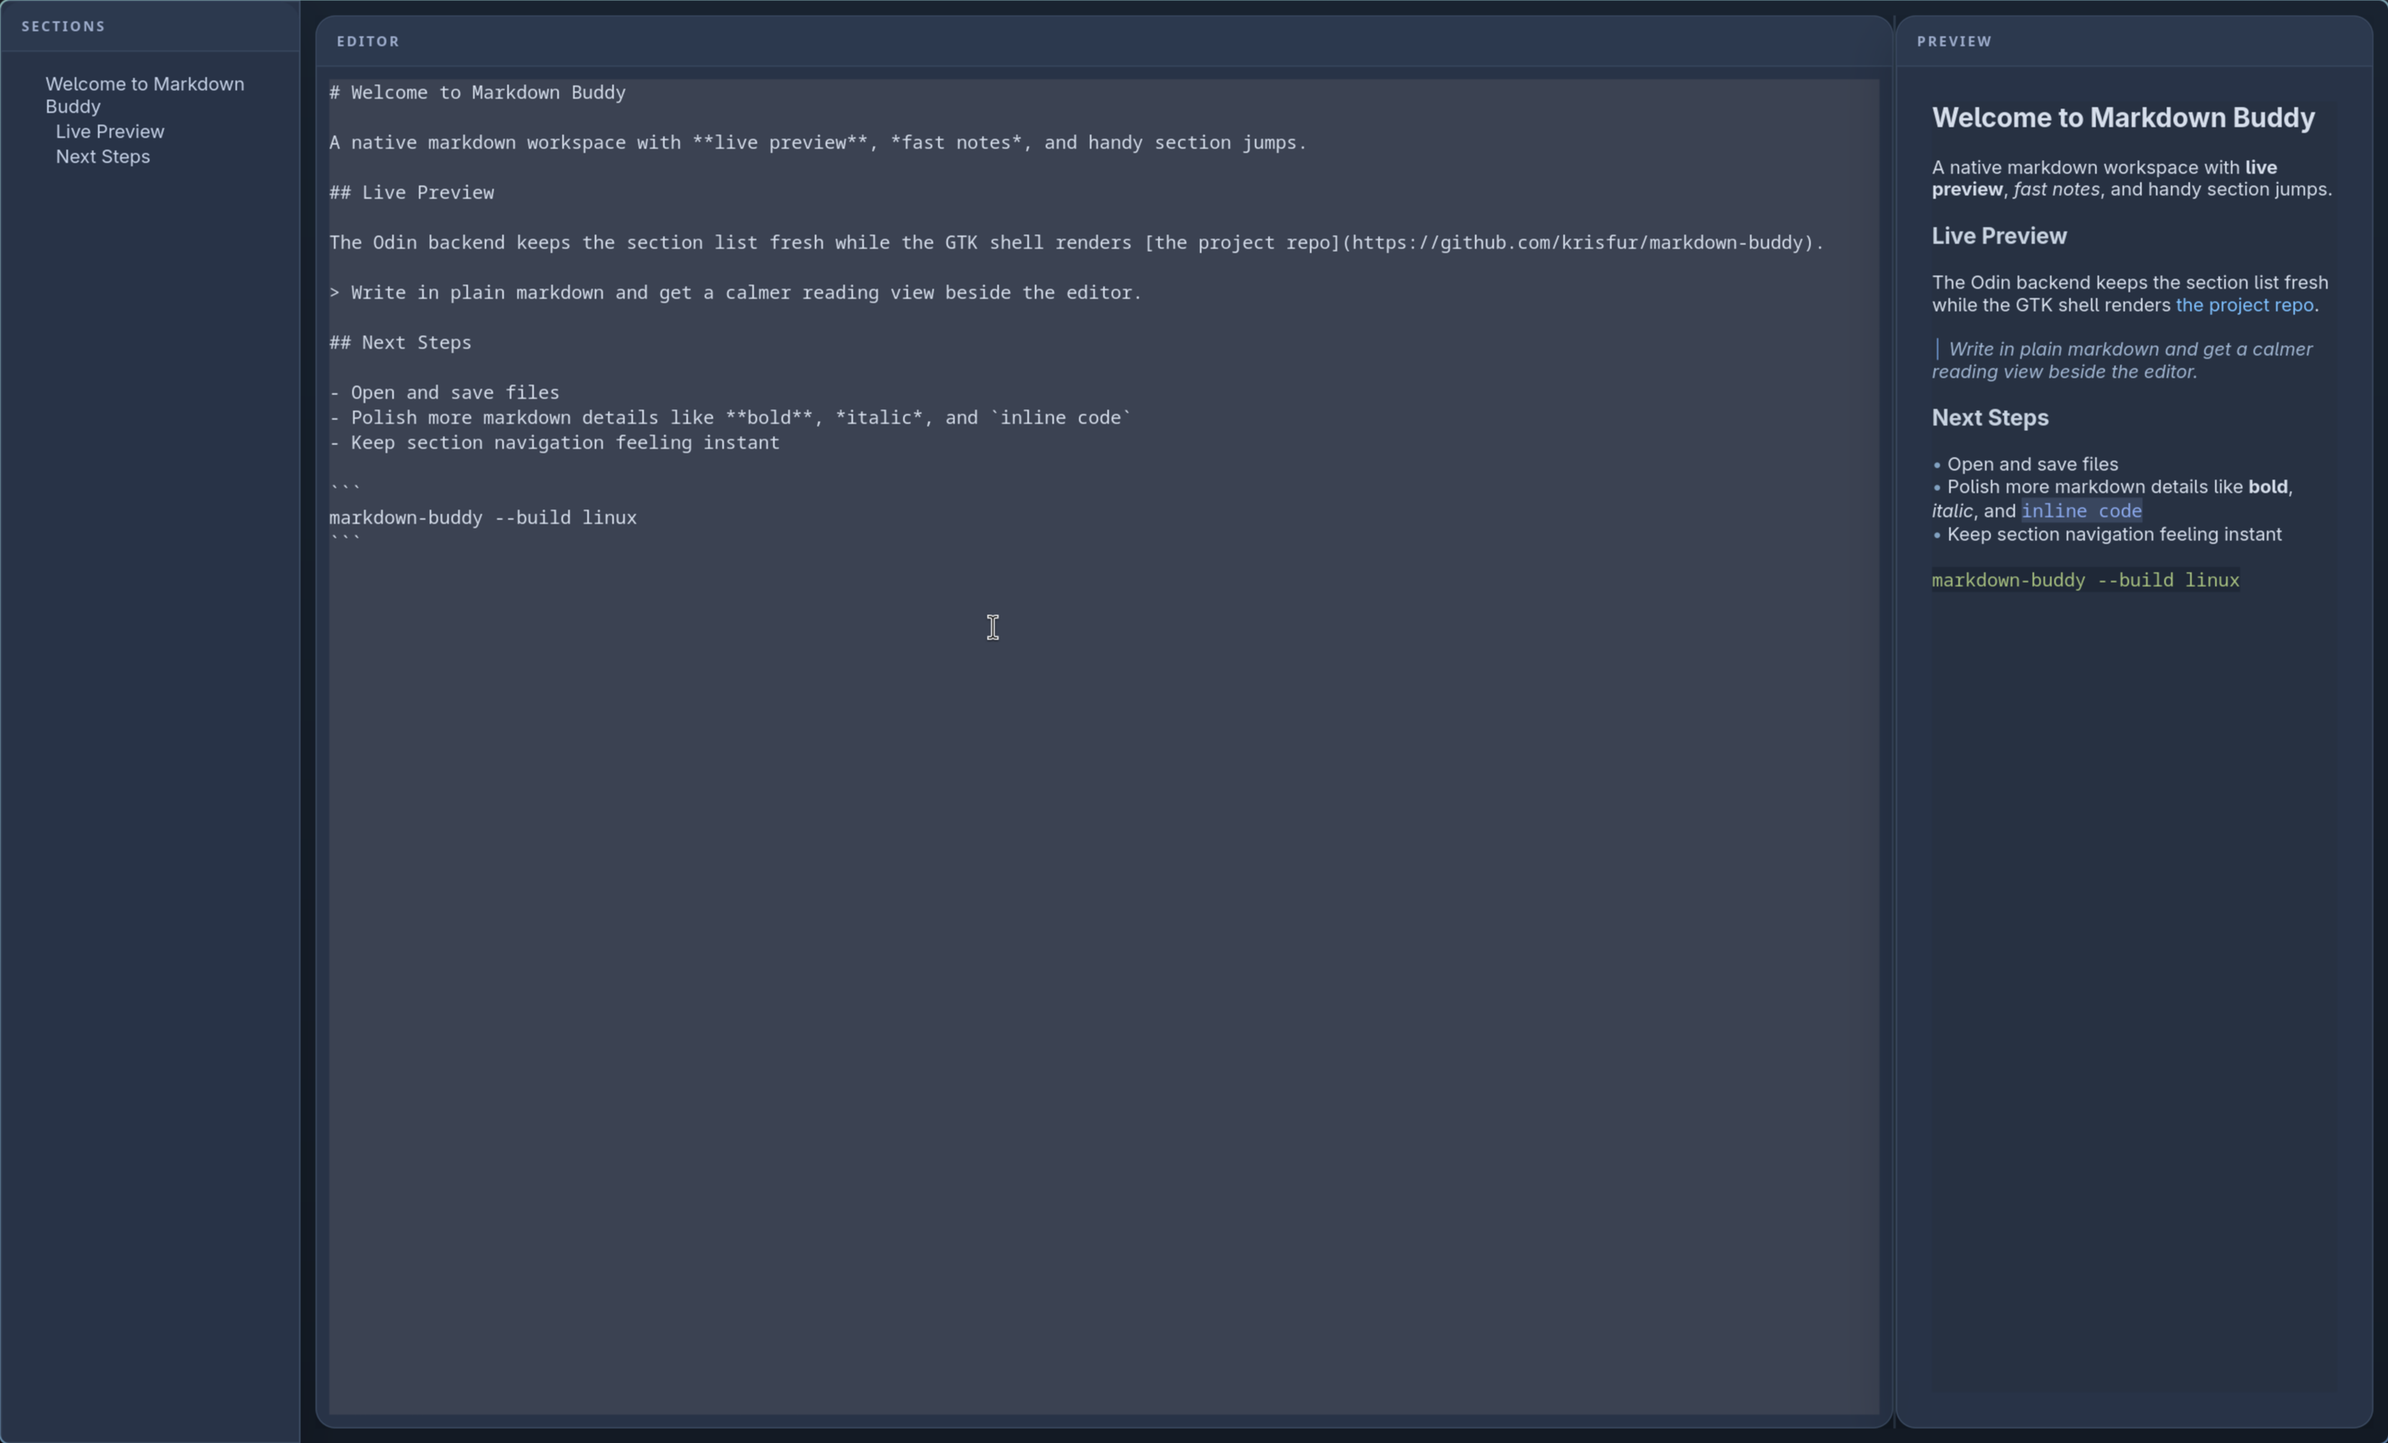
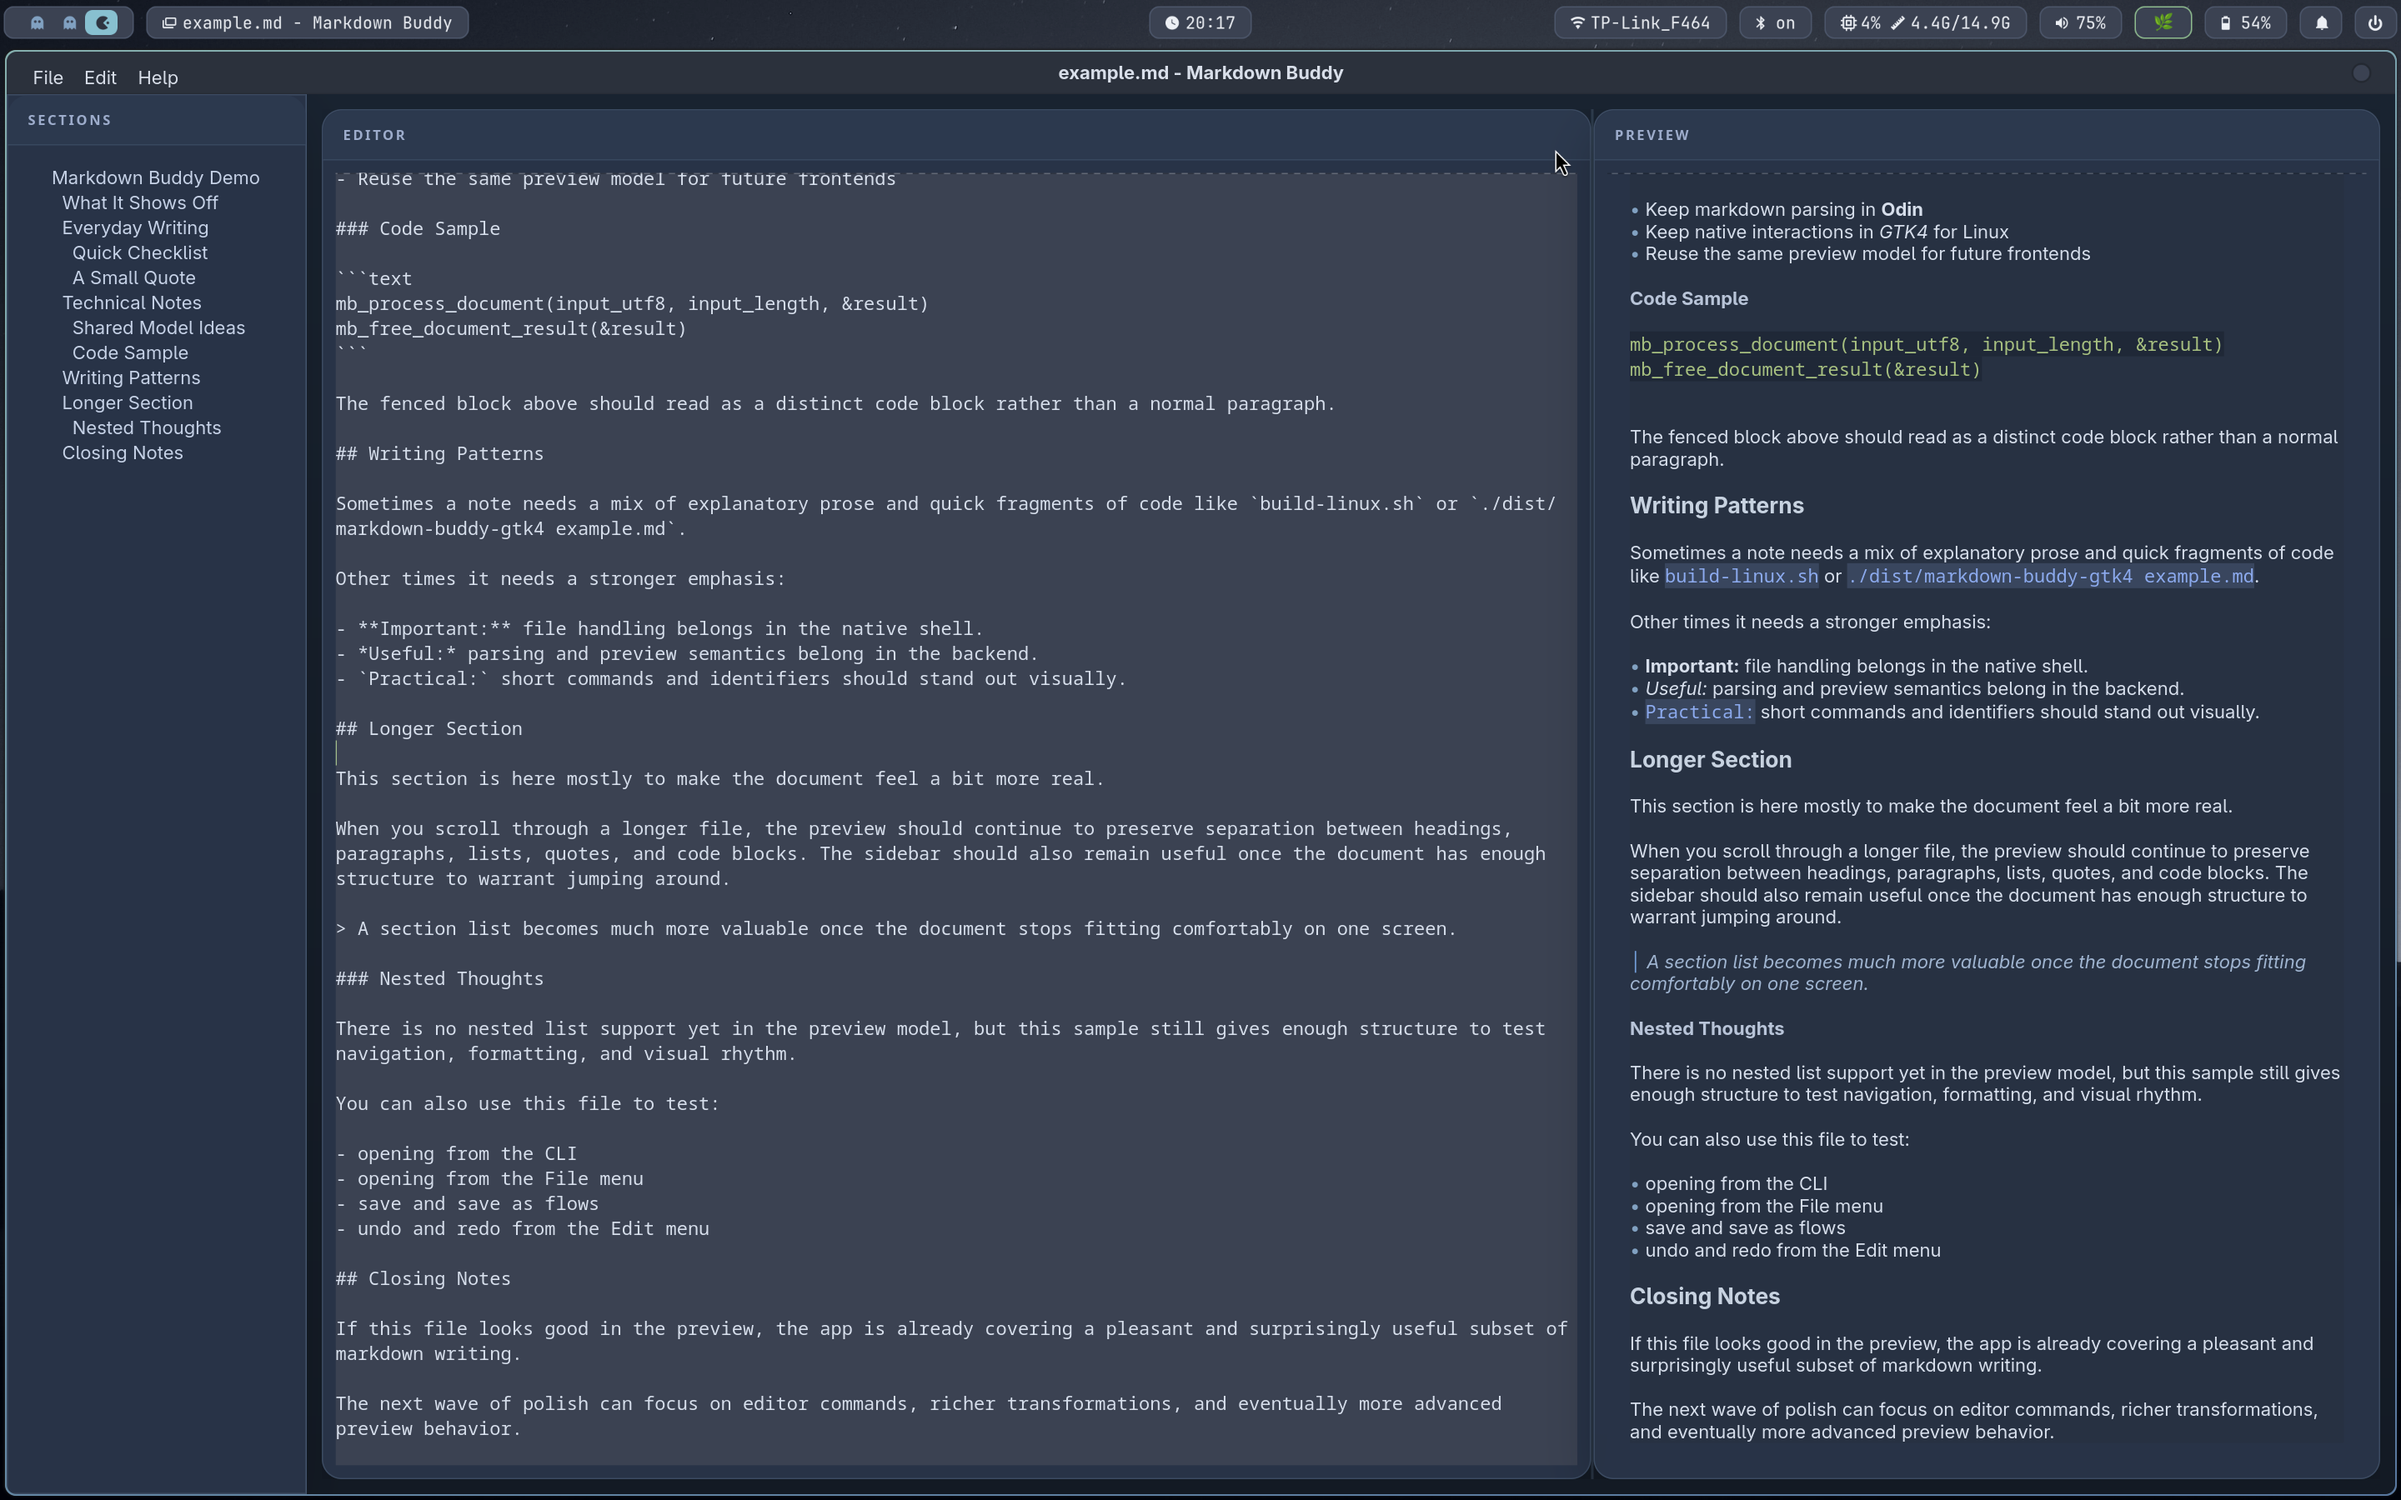
Added exmaple file.

diff --git a/example.md b/example.md
@@ -1,0 +1,87 @@
+# Markdown Buddy Demo
+
+Markdown Buddy is a small native editor for writing notes with a live preview, a section list, and a simple desktop workflow.
+
+## What It Shows Off
+
+This file is meant to exercise the preview with **bold text**, *italic text*, `inline code`, and [external links](https://github.com/krisfur/markdown-buddy).
+
+> The goal is not to be exhaustive markdown documentation.
+> It is a readable sample that touches the features the app supports today.
+
+## Everyday Writing
+
+Imagine this as the start of a project note.
+
+You might describe a feature in plain language, call out an important API like `mb_process_document`, and link to a design reference in [the repository](https://github.com/krisfur/markdown-buddy).
+
+The preview should keep paragraphs readable and spaced apart, while the sidebar should pick up each heading as a navigable section.
+
+### Quick Checklist
+
+- Open an existing markdown file
+- Start a *new* note from scratch
+- Save changes with **Ctrl+S**
+- Jump between sections from the left sidebar
+- Close the window and get a save prompt if the document is dirty
+
+### A Small Quote
+
+> Good tools do not just work.
+> They make the common path feel calm.
+
+## Technical Notes
+
+The application currently uses an Odin backend with a C ABI and a GTK4 frontend on Linux.
+
+That split means markdown interpretation can stay centralized while native frontends focus on platform behavior, menus, file dialogs, and rendering.
+
+### Shared Model Ideas
+
+- Keep markdown parsing in **Odin**
+- Keep native interactions in *GTK4* for Linux
+- Reuse the same preview model for future frontends
+
+### Code Sample
+
+```text
+mb_process_document(input_utf8, input_length, &result)
+mb_free_document_result(&result)
+```
+
+The fenced block above should read as a distinct code block rather than a normal paragraph.
+
+## Writing Patterns
+
+Sometimes a note needs a mix of explanatory prose and quick fragments of code like `build-linux.sh` or `./dist/markdown-buddy-gtk4 example.md`.
+
+Other times it needs a stronger emphasis:
+
+- **Important:** file handling belongs in the native shell.
+- *Useful:* parsing and preview semantics belong in the backend.
+- `Practical:` short commands and identifiers should stand out visually.
+
+## Longer Section
+
+This section is here mostly to make the document feel a bit more real.
+
+When you scroll through a longer file, the preview should continue to preserve separation between headings, paragraphs, lists, quotes, and code blocks. The sidebar should also remain useful once the document has enough structure to warrant jumping around.
+
+> A section list becomes much more valuable once the document stops fitting comfortably on one screen.
+
+### Nested Thoughts
+
+There is no nested list support yet in the preview model, but this sample still gives enough structure to test navigation, formatting, and visual rhythm.
+
+You can also use this file to test:
+
+- opening from the CLI
+- opening from the File menu
+- save and save as flows
+- undo and redo from the Edit menu
+
+## Closing Notes
+
+If this file looks good in the preview, the app is already covering a pleasant and surprisingly useful subset of markdown writing.
+
+The next wave of polish can focus on editor commands, richer transformations, and eventually more advanced preview behavior.
